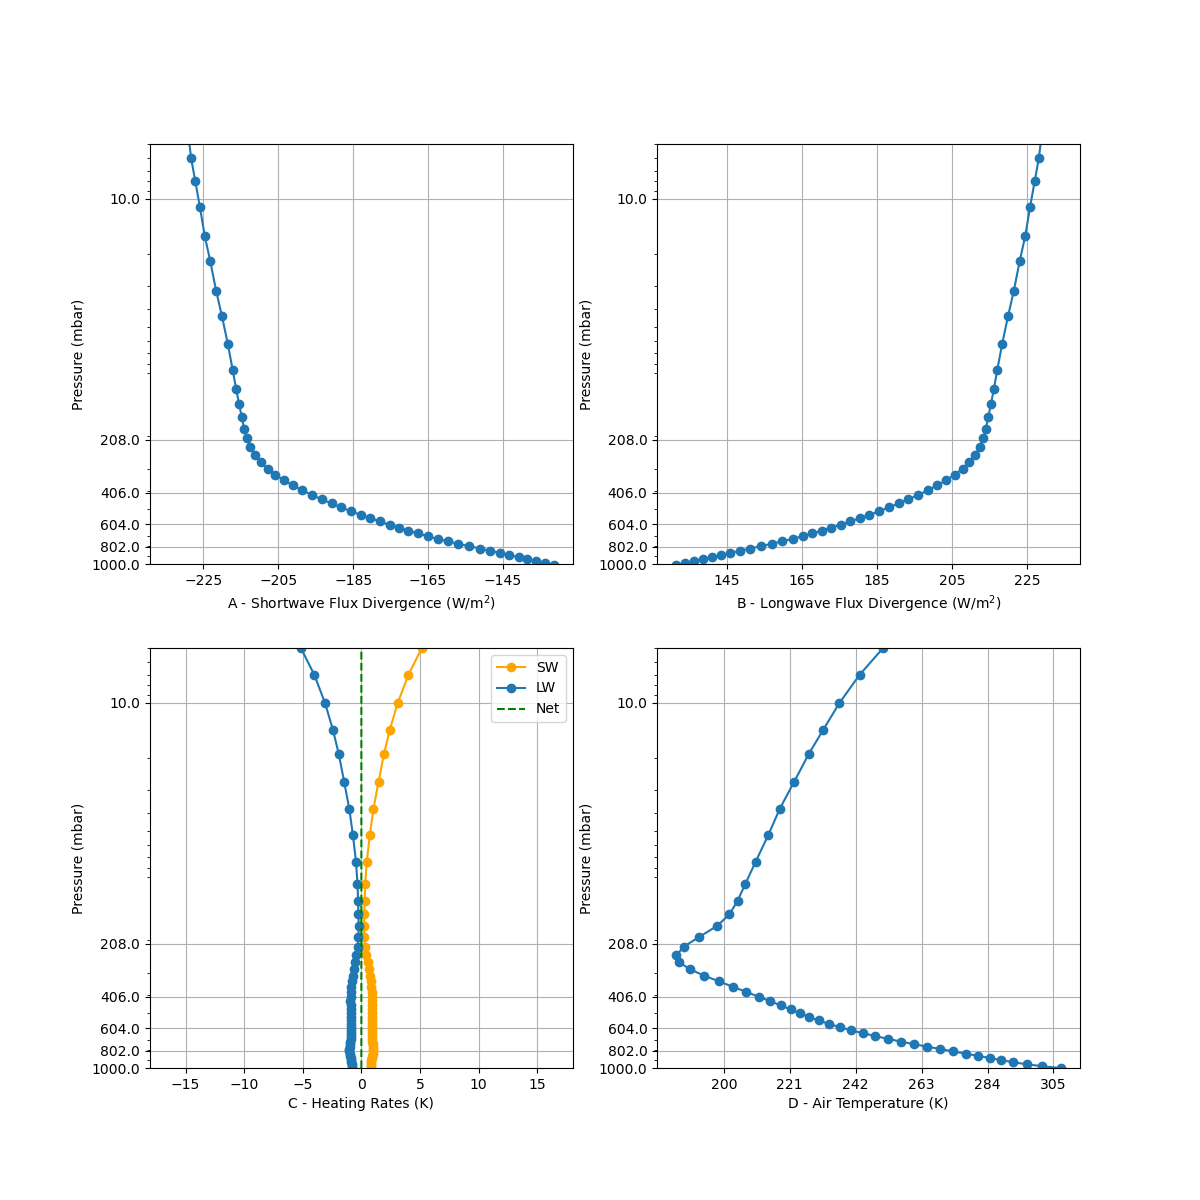
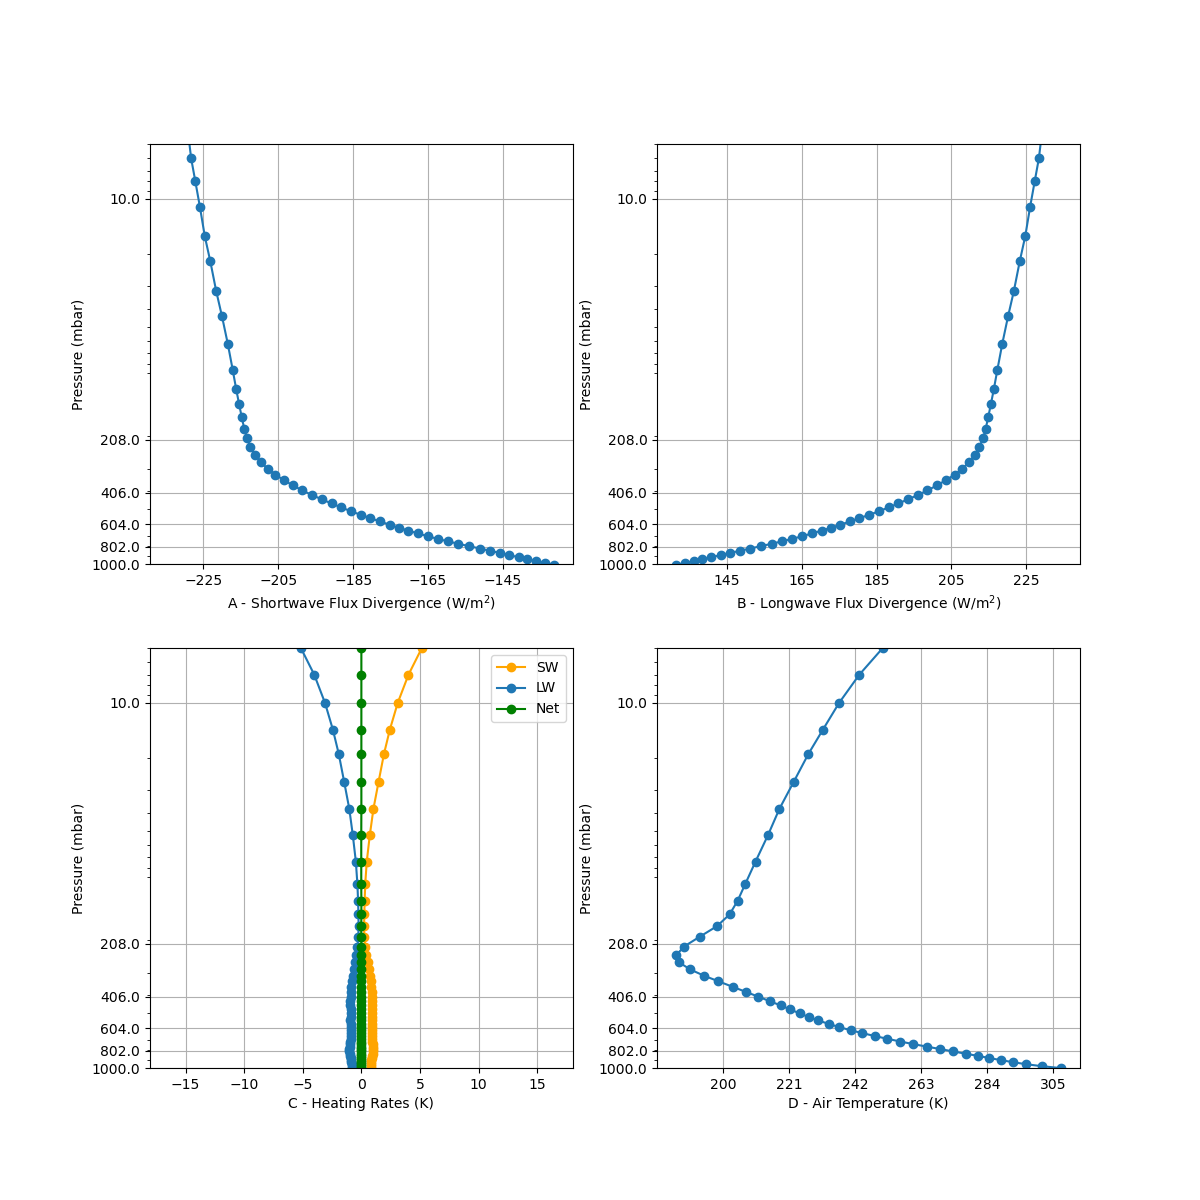
Changes to graphing for RCE and RE

diff --git a/1D_RadEqModel/equilibriumProfs.py b/1D_RadEqModel/equilibriumProfs.py
@@ -1,6 +1,8 @@
 import csv
-from matplotlib import pyplot as plt 
+from matplotlib import pyplot as plt
 import numpy as np
+import metpy.calc as calc
+from metpy.units import units
 import matplotlib.ticker as ticker
 
 dataArr = []
@@ -12,10 +14,28 @@ with open('output_runModel/equilibrium.csv', 'r') as equilibriumFile:
 dataArr =  [ele for ele in dataArr if ele != []] 
 lwFluxNet, swFluxNet, sw_heatRate, lw_heatRate, airTemperatureProf, interface_airPressure_vertCoord, airPressure_vertCoord = dataArr[0],dataArr[1],dataArr[2], dataArr[3], dataArr[4], dataArr[6], dataArr[7]
 airPressure_vertCoord = [round((float(ele)/100),0) for ele in airPressure_vertCoord] # Conversion to mbar
-interface_airPressure_vertCoord = [round((float(ele)/100),0) for ele in interface_airPressure_vertCoord]
 timeTaken = ''.join(dataArr[5])
 
+
+interface_airPressure_vertCoord = [round((float(ele))) for ele in interface_airPressure_vertCoord]
+airTemperatureProf = [round(float(ele),2) for ele in airTemperatureProf]
+potentialTemperatures = []
+for i in range(60):
+	pressure = interface_airPressure_vertCoord[i]
+	pressure  = units.Quantity(pressure,"pascal")
+	temperature = airTemperatureProf[i]
+	temperature = units.Quantity(temperature,"kelvin")
+	potentialT = calc.potential_temperature(pressure,temperature)
+	potentialTemperatures.append(potentialT.magnitude)
+potentialTemperatures = np.array(potentialTemperatures)
+np.save("../pT/RE_pT",potentialTemperatures)
+inter = np.array(interface_airPressure_vertCoord)
+np.save("../pT/airP",inter)
+	
+
+
 fig = plt.figure(figsize=(12,12))
+interface_airPressure_vertCoord = [round((float(ele)/100),0) for ele in interface_airPressure_vertCoord]
 
 # SHORTWAVE FLUX DIVERGENCE
 
@@ -24,6 +44,7 @@ ax = fig.add_subplot(2,2,1)
 ax.set_yscale('log')
 ax.yaxis.set_major_locator(ticker.MultipleLocator(6))
 ax.yaxis.set_ticks(np.linspace(1000,10,6))
+ax.set_yticklabels(np.linspace(1000,10,6))
 ax.axes.invert_yaxis()
 ax.set_ylim(1e3, 5.)
 ax.set_xticks(np.linspace(-125,-245,7))
@@ -31,7 +52,6 @@ ax.plot(swFluxNet,airPressure_vertCoord,'-o')
 ax.set_xlabel("A - Shortwave Flux Divergence (" + r'W/m$^2$' + ")")
 ax.set_ylabel("Pressure (mbar)")
 ax.grid()
-ax.set_yticklabels(np.linspace(1000,10,6))
 
 # LONGWAVE FLUX DIVERGENCE
 
@@ -63,7 +83,7 @@ ax.set_xticks(np.linspace(-30,30,13))
 ax.plot(sw_heatRate,interface_airPressure_vertCoord,'-o',color = "orange", label = "SW")
 ax.plot(lw_heatRate,interface_airPressure_vertCoord,'-o', label = "LW")
 ax.plot((np.array(sw_heatRate).flatten() + np.array(lw_heatRate).flatten()),
-	interface_airPressure_vertCoord, '--', color='green', label = 'Net')
+	interface_airPressure_vertCoord, '-o', color='green', label = 'Net')
 ax.set_xlabel("C - Heating Rates (K)")
 ax.legend(loc='upper right')
 ax.set_ylabel("Pressure (mbar)")

diff --git a/1D_RCEModel/equilibriumProfiles.py b/1D_RCEModel/equilibriumProfiles.py
@@ -14,8 +14,24 @@ def eqProfs():
 			dataArr.append(row)
 	dataArr =  [ele for ele in dataArr if ele != []] 
 	lwFluxNet, swFluxNet, sw_heatRate, lw_heatRate, convection_heatRate, airTemperatureProf, interface_airPressure_vertCoord, airPressure_vertCoord = dataArr[0],dataArr[1],dataArr[2], dataArr[3], dataArr[4], dataArr[5], dataArr[7], dataArr[8]
-	airPressure_vertCoord = [round((float(ele)/100),0) for ele in airPressure_vertCoord] # Conversion to mbar
-	interface_airPressure_vertCoord = [round((float(ele)/100),0) for ele in interface_airPressure_vertCoord]
+	
+	# POTENTIAL TEMPERATURE
+	interface_airPressure_vertCoord = [round((float(ele))) for ele in interface_airPressure_vertCoord]
+	airTemperatureProf = [round(float(ele),2) for ele in airTemperatureProf]
+	potentialTemperatures = []
+	for i in range(60):
+		pressure = interface_airPressure_vertCoord[i]
+		pressure  = units.Quantity(pressure,"pascal")
+		temperature = airTemperatureProf[i]
+		temperature = units.Quantity(temperature,"kelvin")
+		potentialT = calc.potential_temperature(pressure,temperature)
+		potentialTemperatures.append(potentialT.magnitude)
+	potentialTemperatures = np.array(potentialTemperatures)
+	np.save("../pT/RCE_pT",potentialTemperatures)
+	
+	# PREP FOR MAIN GRAPH
+	interface_airPressure_vertCoord = [round((float(ele)/100),2) for ele in interface_airPressure_vertCoord]
+	airPressure_vertCoord = [round((float(ele)/100),2) for ele in airPressure_vertCoord] # Conversion to mbar
 	timeTaken = ''.join(dataArr[5])
 
 	fig = plt.figure(figsize=(12,12),dpi=1000)
@@ -65,7 +81,7 @@ def eqProfs():
 	ax.set_xticks(np.linspace(-30,30,13))
 	ax.plot(sw_heatRate,interface_airPressure_vertCoord,'-o',color = "orange", label = "SW")
 	ax.plot(lw_heatRate,interface_airPressure_vertCoord,'-o', label = "LW")
-	#ax.plot(convection_heatRate, interface_airPressure_vertCoord, '-o', color='red', label = "Conv.")
+	ax.plot(np.array(sw_heatRate) + np.array(lw_heatRate), interface_airPressure_vertCoord, '-o', color='green', label = "Net")
 	ax.set_xlabel("C - Heating Rates (K)")
 	ax.legend(loc='upper right')
 	ax.set_ylabel("Pressure (mbar)")
@@ -74,20 +90,18 @@ def eqProfs():
 
 	# AIR TEMPERATURE
 
-	airTemperatureProf = [round(float(ele),2) for ele in airTemperatureProf]
 	ax = fig.add_subplot(2,2,4)
 	ax.set_yscale('log')
 	ax.yaxis.set_major_locator(ticker.MultipleLocator(6))
 	ax.yaxis.set_ticks(np.linspace(1000,10,6))
 	ax.axes.invert_yaxis()
 	ax.set_ylim(1e3, 5)
-	#ax.set_xticks(np.linspace(220,300,8))
+	ax.set_xticks(np.linspace(200,300,6))
 	ax.plot(airTemperatureProf,interface_airPressure_vertCoord, '-o')
 	ax.set_xlabel("D - Air Temperature (K)")
 	ax.set_ylabel("Pressure (mbar)")
 	ax.grid()
 	ax.set_yticklabels(np.linspace(1000,10,6))
-	
 	plt.savefig("../graphs/RCEModel.png")
 
 eqProfs()
